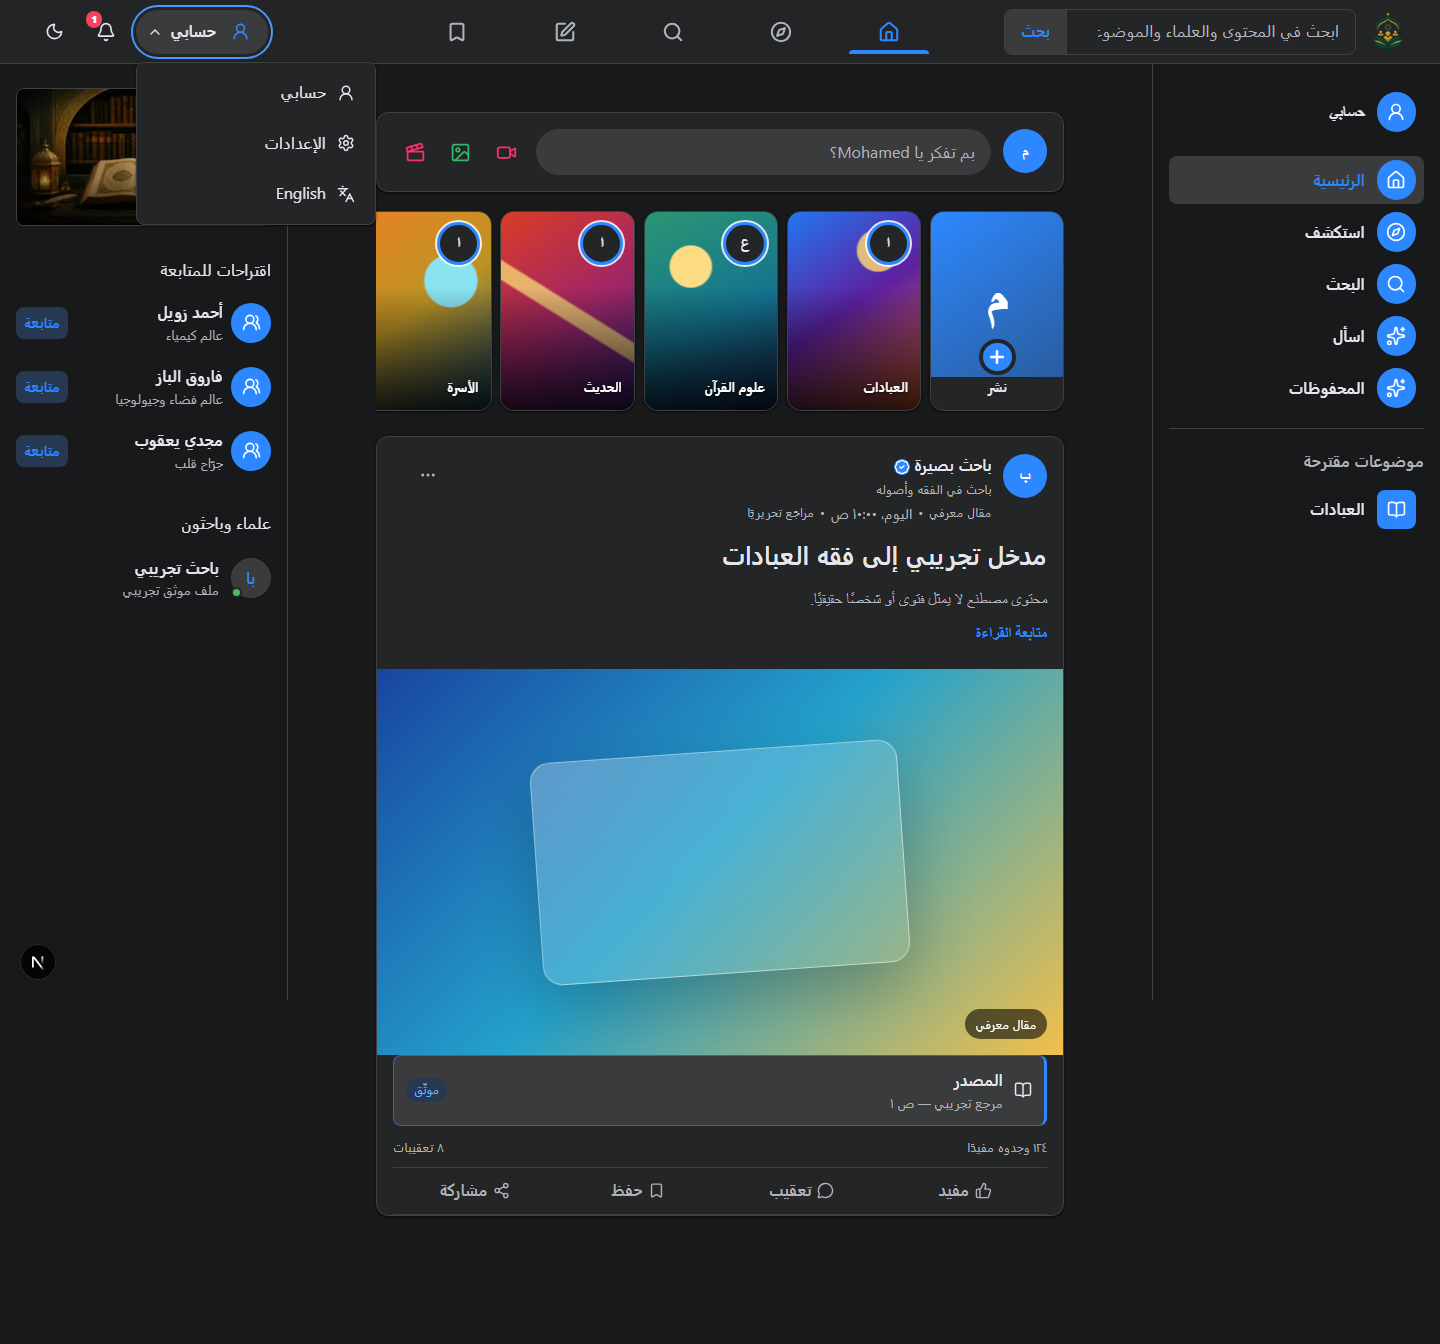
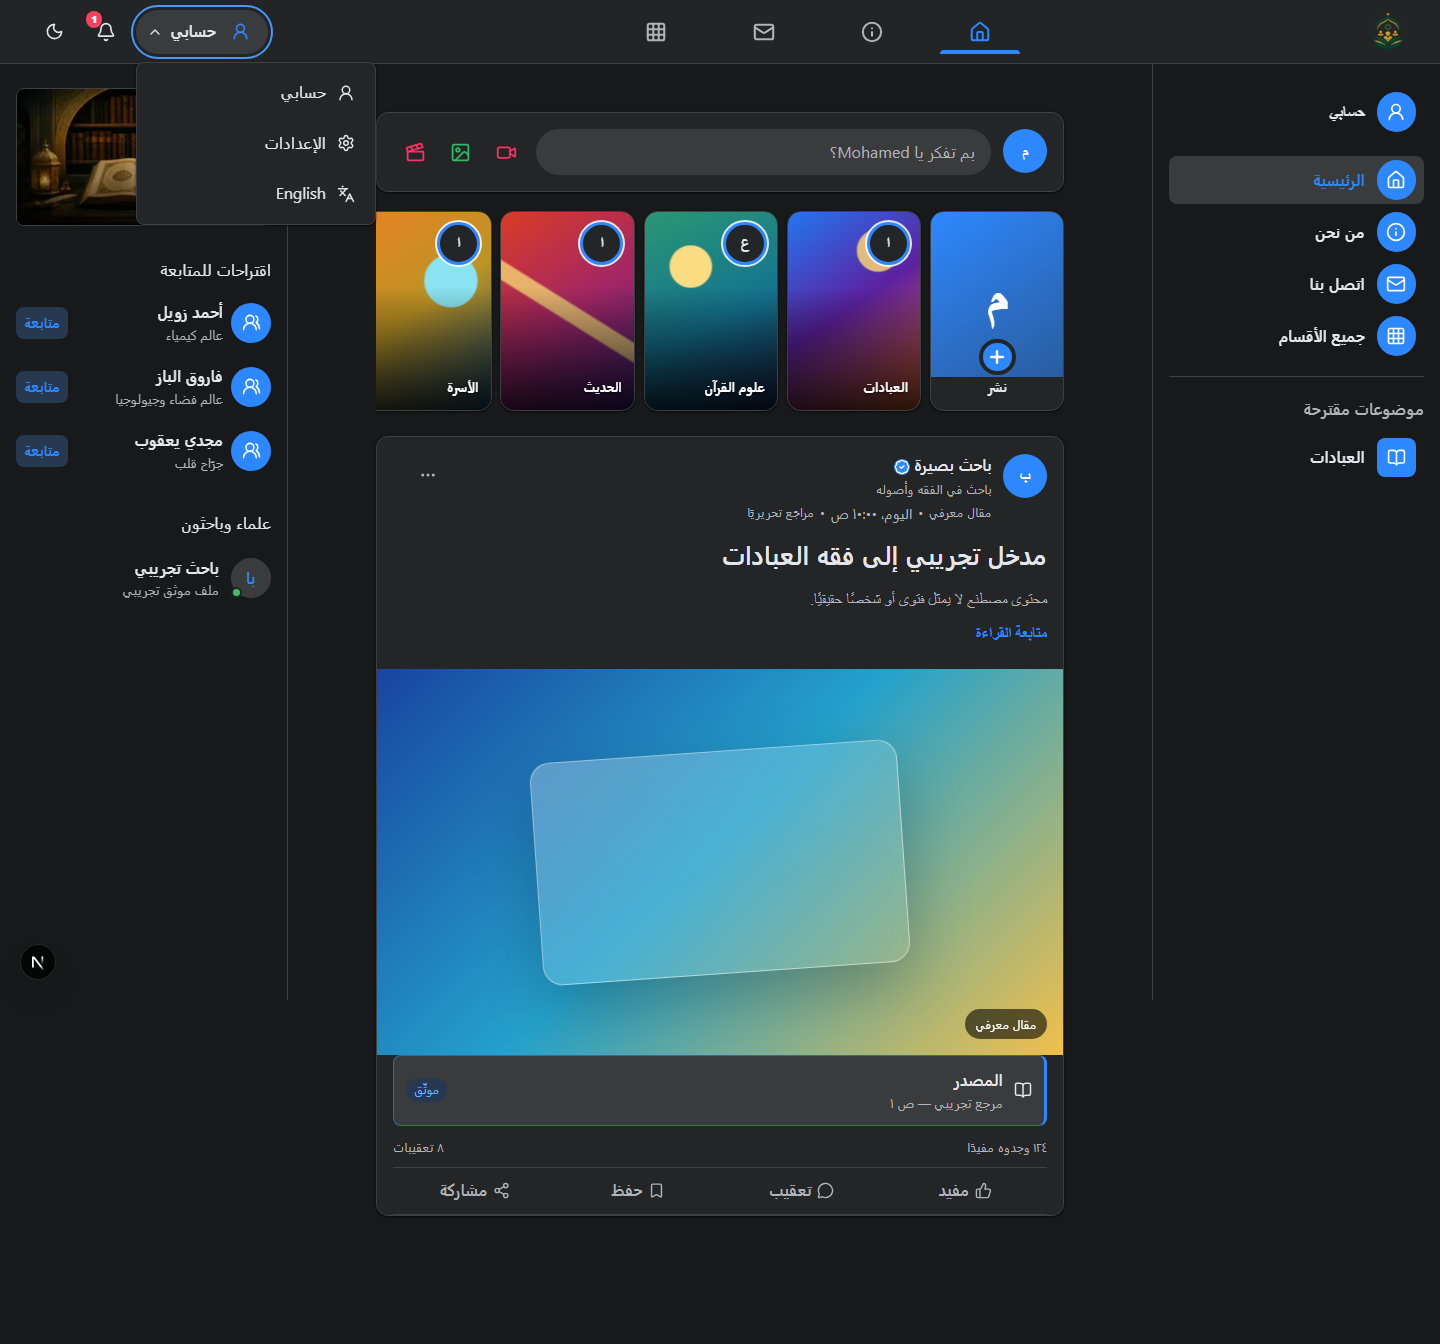
test(qa): verify public navigation refresh

diff --git a/e2e/stitch-visual.e2e.ts b/e2e/stitch-visual.e2e.ts
@@ -1,28 +1,23 @@
 import { expect, test } from "@playwright/test";
 
 test.describe("Mounir Stitch shell visual contract", () => {
-  test("secondary routes share the responsive social page contract", async ({ page }) => {
+  test("new public routes share a responsive page contract", async ({ page }) => {
     test.setTimeout(60_000);
     for (const width of [1280, 390]) {
       await page.setViewportSize({ width, height: width > 600 ? 900 : 844 });
-      for (const route of ["/explore", "/search", "/ask/1", "/saved"]) {
+      for (const route of ["/about", "/contact", "/categories"]) {
         await page.goto(route);
-        await expect(page.locator(".social-page")).toBeVisible();
-        await expect(page.locator(".social-page__hero h1")).toBeVisible();
+        await expect(page.locator(".public-page")).toBeVisible();
+        await expect(page.locator(".public-page__hero h1")).toBeVisible();
         const overflow = await page.evaluate(() => document.documentElement.scrollWidth - document.documentElement.clientWidth);
         expect(overflow, `${route} at ${width}px`).toBeLessThanOrEqual(1);
       }
     }
 
-    await page.goto("/explore");
-    await expect(page.locator(".topic-grid a")).toHaveCount(1);
-    await expect(page.locator(".scholar-grid")).toBeVisible();
-    await page.goto("/search");
-    await expect(page.locator(".social-search__form")).toBeVisible();
-    await page.goto("/ask/1");
-    await expect(page.locator(".visibility-picker label")).toHaveCount(2);
-    await page.goto("/saved");
-    await expect(page.locator(".saved-collections .feed-post").first()).toBeVisible();
+    await page.goto("/categories");
+    await expect(page.locator(".categories-grid a")).toHaveCount(1);
+    await page.goto("/contact");
+    await expect(page.locator("a[href^='mailto:']")).toHaveCount(3);
   });
 
   test("brand logo and public SEO metadata are exposed", async ({ page, request }) => {
@@ -49,11 +44,10 @@ test.describe("Mounir Stitch shell visual contract", () => {
     const navigation = page.locator(".app-shell__leading-rail");
     const content = page.locator(".app-shell__main");
     const rail = page.locator(".app-shell__rail");
-    const search = page.locator(".app-shell__search");
     const actions = page.locator(".app-shell__actions");
 
     await expect(page.locator("html")).toHaveAttribute("dir", "rtl");
-    await expect(search).toBeVisible();
+    await expect(page.locator(".app-shell__search")).toHaveCount(0);
     await expect(actions).toBeVisible();
     await expect(page.locator(".app-shell__topnav")).toBeVisible();
     await expect(actions.locator(".social-media-actions")).toHaveCount(0);
@@ -68,7 +62,6 @@ test.describe("Mounir Stitch shell visual contract", () => {
     await expect(accountMenu.locator("[role='menuitem']")).toHaveCount(3);
     await expect(accountMenu.locator("a[role='menuitem'][href='/me/questions']")).toBeVisible();
     await expect(accountMenu.locator("a[role='menuitem'][href='/settings/privacy']")).toBeVisible();
-    await expect(page.locator("#shell-search-query")).toHaveAttribute("placeholder", /ابحث/);
     await expect(page.locator(".feed-composer__prompt")).toHaveText("بم تفكر يا Mohamed؟");
     await expect(page.locator(".feed-composer__quick-actions button")).toHaveCount(3);
     await expect(page.locator(".feed-composer__quick-actions button[aria-label='إنشاء مقطع']")).toBeVisible();
@@ -87,7 +80,7 @@ test.describe("Mounir Stitch shell visual contract", () => {
     await expect(rail.getByRole("heading", { name: "موضوعات مقترحة" })).toHaveCount(0);
     await expect(rail.locator(".discovery-rail__suggestions")).toBeVisible();
     await expect(rail.locator(".discovery-rail__scholars")).toBeVisible();
-    await expect(navigation.locator(".shortcuts-rail nav a > span svg")).toHaveCount(5);
+    await expect(navigation.locator(".shortcuts-rail nav a > span svg")).toHaveCount(4);
     await expect(navigation.locator(".shortcuts-rail__profile > span svg")).toHaveCount(1);
     await expect(navigation.locator(".shortcuts-rail__tile svg")).toHaveCount(1);
     const suggestions = rail.locator(".discovery-rail__suggestions");
@@ -139,10 +132,10 @@ test.describe("Mounir Stitch shell visual contract", () => {
     const navigation = page.locator(".app-shell__nav");
     await expect(page.locator(".app-shell__rail")).toBeHidden();
     await expect(page.locator(".app-shell__leading-rail")).toBeHidden();
-    await expect(page.locator(".app-shell__search")).toBeHidden();
+    await expect(page.locator(".app-shell__search")).toHaveCount(0);
     await expect(page.locator(".app-shell__actions")).toBeVisible();
     await expect(navigation).toBeVisible();
-    await expect(navigation.locator("a")).toHaveCount(5);
+    await expect(navigation.locator("a")).toHaveCount(4);
 
     const overflow = await page.evaluate(
       () => document.documentElement.scrollWidth - document.documentElement.clientWidth,
@@ -161,15 +154,11 @@ test.describe("Mounir Stitch shell visual contract", () => {
     }
   });
 
-  test("header search remains keyboard operable and preserves route query", async ({ page }) => {
-    await page.goto("/");
-    const query = page.locator("#shell-search-query");
-    await query.focus();
-    await expect(query).toBeFocused();
-    await query.fill("مدخل");
-    await query.press("Enter");
-    await expect(page).toHaveURL(/\/search\?q=%D9%85%D8%AF%D8%AE%D9%84$/);
-    await expect(page.locator("main h1")).toBeVisible();
+  test("removed public routes return not found", async ({ page }) => {
+    for (const route of ["/explore", "/search", "/ask/1", "/ask/review"]) {
+      const response = await page.goto(route);
+      expect(response?.status(), route).toBe(404);
+    }
   });
 
   test("composer prompt opens an accessible dialog and stories scroll without visible chrome", async ({ page, browserName }) => {
@@ -208,7 +197,7 @@ test.describe("Mounir Stitch shell visual contract", () => {
   });
 
   test("shell landmarks remain unique and public discovery excludes private fixtures", async ({ page }) => {
-    for (const route of ["/", "/search", "/content/content-1", "/me/questions/question-private-1"]) {
+    for (const route of ["/", "/about", "/content/content-1", "/me/questions/question-private-1"]) {
       await page.goto(route);
       await expect(page.locator("header.app-shell__header")).toHaveCount(1);
       await expect(page.locator("nav.app-shell__nav")).toHaveCount(1);

diff --git a/e2e/p0-journeys.e2e.ts b/e2e/p0-journeys.e2e.ts
@@ -1,20 +1,11 @@
 import { expect, test } from "@playwright/test";
 
 test.describe("P0 public and member journeys", () => {
-  test("public search keeps the query shareable and exposes results", async ({ page }) => {
-    await page.goto("/search?q=%D9%85%D8%AF%D8%AE%D9%84");
-    await expect(page).toHaveURL(/\/search\?q=/);
-    await expect(page.locator("main h1")).toBeVisible();
-    await expect(page.locator("main article, main li").first()).toBeVisible();
-  });
-
-  test("member can select private question visibility and sees a privacy notice", async ({ page }) => {
-    await page.goto("/ask/1");
-    const radios = page.getByRole("radio");
-    await expect(radios).toHaveCount(2);
-    await radios.nth(1).check();
-    await expect(radios.nth(1)).toBeChecked();
-    await expect(page.getByRole("note")).toBeVisible();
+  test("new public navigation pages are available", async ({ page }) => {
+    for (const route of ["/about", "/contact", "/categories"]) {
+      await page.goto(route);
+      await expect(page.locator("main h1")).toBeVisible();
+    }
   });
 
   test("private question never leaks its content into URL or document metadata", async ({ page }) => {
@@ -28,7 +19,7 @@ test.describe("P0 public and member journeys", () => {
   });
 
   test("private question fixture is absent from public discovery surfaces", async ({ page }) => {
-    for (const route of ["/", "/explore", "/search?q=question-private-1"]) {
+    for (const route of ["/", "/about", "/categories"]) {
       await page.goto(route);
       const documentText = await page.locator("html").innerText();
       expect(documentText).not.toContain("question-private-1");
@@ -41,18 +32,18 @@ test.describe("P0 permission boundaries", () => {
   test("member session is denied scholar answer controls", async ({ page }) => {
     await page.goto("/scholar/questions/question-private-1/answer");
     await expect(page.locator("textarea")).toHaveCount(0);
-    await expect(page.locator('[role="status"], [role="alert"]')).toBeVisible();
+    await expect(page.locator('[role="status"], [role="alert"]' ).first()).toBeVisible();
   });
 
   test("member session is denied admin verification decisions", async ({ page }) => {
     await page.goto("/admin/verification/verification-1");
     await expect(page.locator("textarea")).toHaveCount(0);
-    await expect(page.locator('[role="status"], [role="alert"]')).toBeVisible();
+    await expect(page.locator('[role="status"], [role="alert"]' ).first()).toBeVisible();
   });
 
   test("member session is denied moderation decisions", async ({ page }) => {
     await page.goto("/admin/moderation/case-1");
     await expect(page.locator("textarea")).toHaveCount(0);
-    await expect(page.locator('[role="status"], [role="alert"]')).toBeVisible();
+    await expect(page.locator('[role="status"], [role="alert"]' ).first()).toBeVisible();
   });
 });

diff --git a/e2e/quality-gates.e2e.ts b/e2e/quality-gates.e2e.ts
@@ -1,7 +1,7 @@
 import { expect, test } from "@playwright/test";
 
 const mojibake = /(?:Ø.|Ù.){2,}/;
-const routes = ["/", "/search", "/ask/1", "/content/content-1", "/scholars/sample-researcher"];
+const routes = ["/", "/about", "/contact", "/categories", "/content/content-1", "/scholars/sample-researcher"];
 
 test.describe("Arabic, RTL, accessibility, and responsive gates", () => {
   for (const route of routes) {

diff --git a/workflow/handoffs/qa-agent-public-navigation-refresh-v1.md b/workflow/handoffs/qa-agent-public-navigation-refresh-v1.md
@@ -1,0 +1,44 @@
+# Handoff: qa-agent / public-navigation-refresh-v1
+
+- Status: `review`
+- Base ref: `2b9f860`
+- Result ref: `committed handoff; see repository HEAD`
+- Tasks completed: `QA-PUBLIC-NAV-ROUTES-001`
+
+## Delivered outputs
+
+| Path | Purpose |
+|---|---|
+| `e2e/stitch-visual.e2e.ts` | New routes, removed routes, four-item navigation, and responsive assertions |
+| `e2e/p0-journeys.e2e.ts` | Public-navigation and privacy journey updates |
+| `e2e/quality-gates.e2e.ts` | New public route quality matrix |
+| `reports/qa/public-navigation-refresh-v1.md` | Browser evidence |
+
+## Acceptance evidence
+
+| Criterion | Evidence/command | Result |
+|---|---|---|
+| Removed routes | Four 404 assertions across three browsers | pass |
+| New pages/navigation | Public page and four-link shell assertions | pass |
+| RTL/responsive | Desktop/mobile contract across three browsers | pass — 12/12 |
+| P0 and quality | Chromium route/privacy/accessibility suite | pass — 18/18 |
+
+## Decisions and assumptions
+
+- Saved remains outside primary navigation but its route remains available.
+
+## Open risks and deferred work
+
+- none
+
+## Cross-owner requests
+
+- none
+
+## Boundary check
+
+- Command: `./.github/scripts/Invoke-AgentBoundaryPS51.ps1 -AgentId qa-agent -BaseRef 2b9f860`
+- Result: `pass`
+
+The agent stops after creating this handoff. Only the orchestrator may accept it and activate
+the successor.

diff --git a/reports/qa/public-navigation-refresh-v1.md b/reports/qa/public-navigation-refresh-v1.md
@@ -1,0 +1,6 @@
+# Public navigation refresh QA
+
+- `/explore`, `/search`, `/ask/1`, and `/ask/review` return 404.
+- `/about`, `/contact`, and `/categories` render responsive dark RTL pages.
+- Header search is absent and top/mobile navigation expose four destinations.
+- Focused cross-browser shell and route suite passed 12/12; Chromium P0/quality passed 18/18 after a strict-locator correction.
